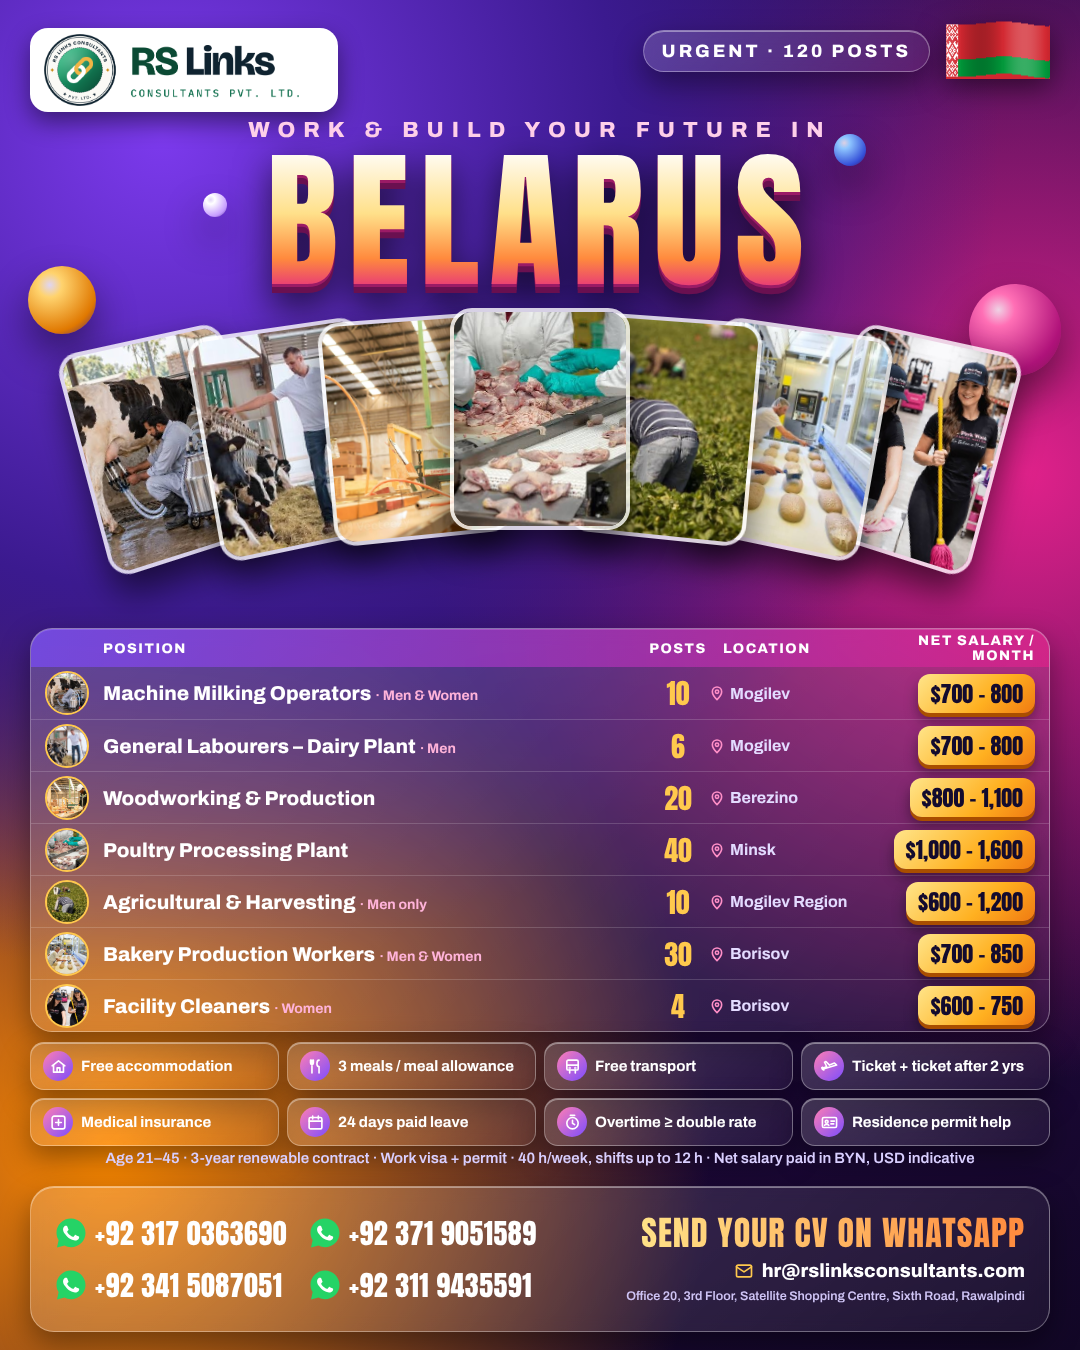
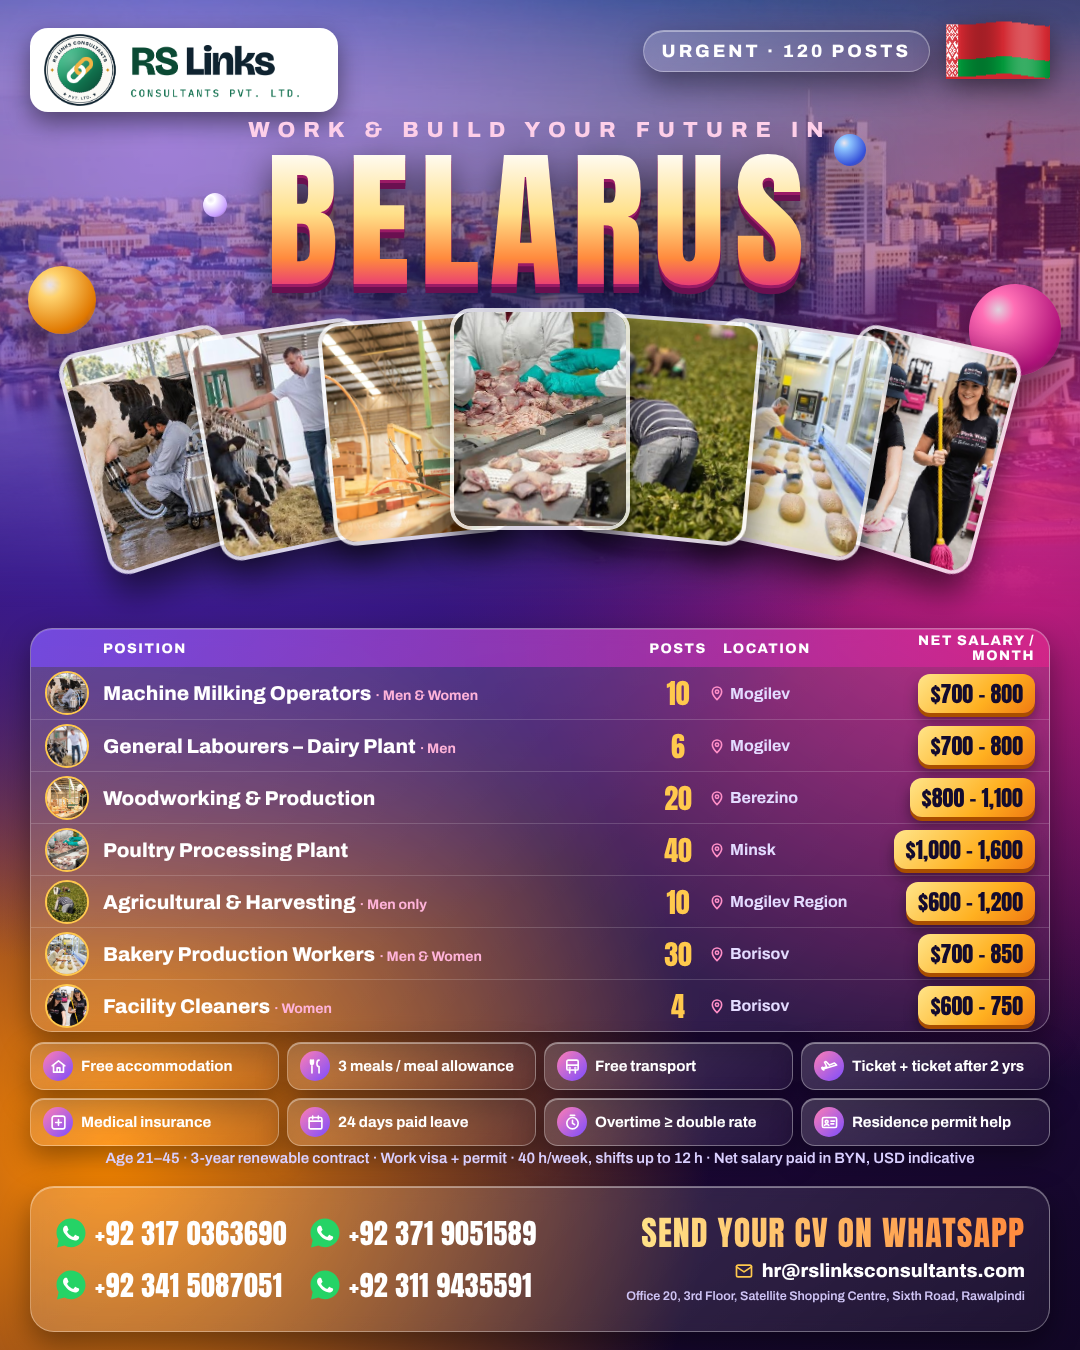
Belarus combined ad v3: Minsk skyline behind title
Claude-Session: https://claude.ai/code/session_01YJ5ofgU8QCiWTsYR9pvXG4

Changed region(s): [[0.0, 0.0, 1.0, 0.3733]]

diff --git a/src/belarus_120_v3.py b/src/belarus_120_v3.py
@@ -3,7 +3,7 @@ pictures, 3D gradient colours, different from every other ad. Facts unchanged fr
 (demands/2026-10-19-belarus-120/facts.md); employer not named.
 Design: "3D glass" — deep indigo -> magenta -> amber mesh gradient with glossy 3D orbs, extruded gradient BELARUS
 wordmark, a perspective fan of the seven real trade photos, frosted-glass vacancy list with round photo chips,
-glass benefit pills, glass CTA with four numbers."""
+glass benefit pills, glass CTA with four numbers. Minsk skyline (user photo) tinted behind the title."""
 from common import PHONES, PHOTOS, flag, font_css, icon, logo_img, render, whatsapp_icon
 
 INK, GOLD = "#130B2E", "#FFC94D"
@@ -57,6 +57,7 @@ def build():
     body = f"""
 <div class='abs' style='inset:0;background:radial-gradient(circle at 15% 10%,#7C3AED 0,#3B1A8F 30%,transparent 55%),radial-gradient(circle at 95% 35%,#E0218A 0,transparent 45%),
  radial-gradient(circle at 10% 85%,#FF8A00 0,transparent 40%),linear-gradient(160deg,#1B0E4A,#2A0B4F 50%,#120726)'></div>
+<div class='abs' style='top:0;left:0;width:1080px;height:640px;overflow:hidden;-webkit-mask-image:linear-gradient(180deg,#000 40%,transparent 95%)'><img src='{(PHOTOS / "by_minsk_skyline.jpg").as_uri()}' style='width:100%;height:100%;object-fit:cover;object-position:center 40%;opacity:.5;mix-blend-mode:luminosity'></div>
 {orb(1015, 330, 46, '#FF6FB5', '#B0127A')}{orb(62, 300, 34, '#FFD36E', '#E07800')}{orb(850, 150, 16, '#8EC5FF', '#3550D8')}{orb(215, 205, 12, '#FFFFFF', '#C59BFF')}
 <div class='abs' style='top:28px;left:30px;padding:6px 14px;border-radius:18px;background:#fff;box-shadow:0 10px 24px #0007'>{logo_img('logo-horizontal-light', 'width:280px;height:72px;object-position:left')}</div>
 <div class='abs' style='top:30px;right:150px;padding:10px 18px;border-radius:999px;{GLASS};font:800 18px Archivo;color:#fff;letter-spacing:3px'>URGENT · 120 POSTS</div>
